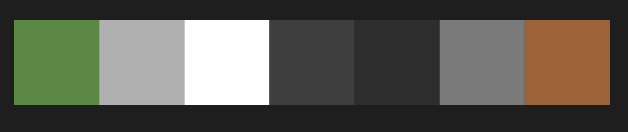
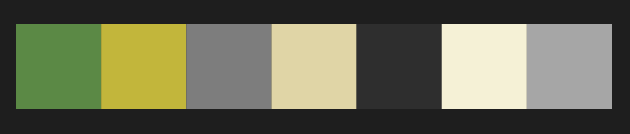
add color array and update color palette ui screenshot

diff --git a/blogs/README.md b/blogs/README.md
@@ -330,6 +330,14 @@ const ColorRectangles = ({ colors }) => {
 export default ColorRectangles
 ```
 
+For example, if the colors array data is:
+
+```js
+['#4B8B3B', '#C4B600', '#7D7D7D', '#E3D4A0', '#2E2E2E', '#F6F1D3', '#A6A6A6']
+```
+
+Then the colors will be rendered in the web as below
+
 ![color patette ui](images/color-palette-ui.png)
 
 ## Further Enhancements
